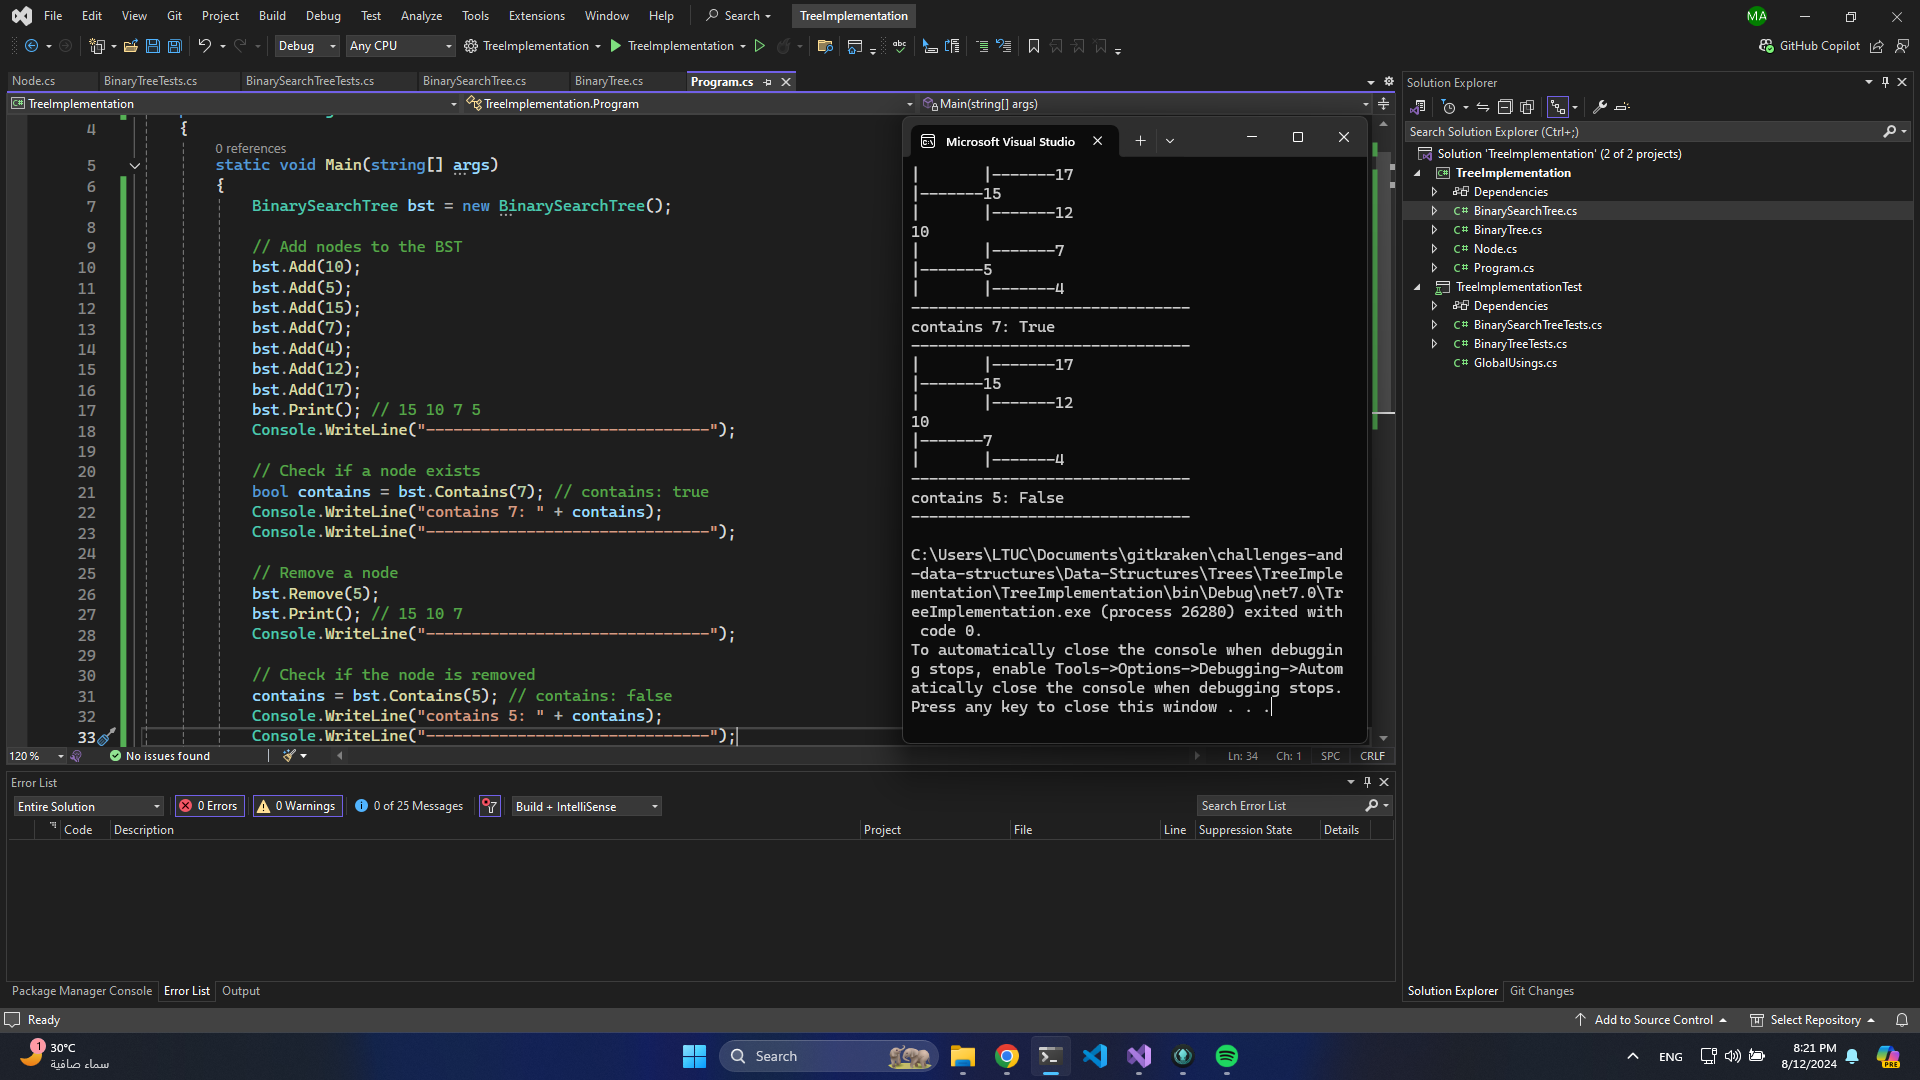
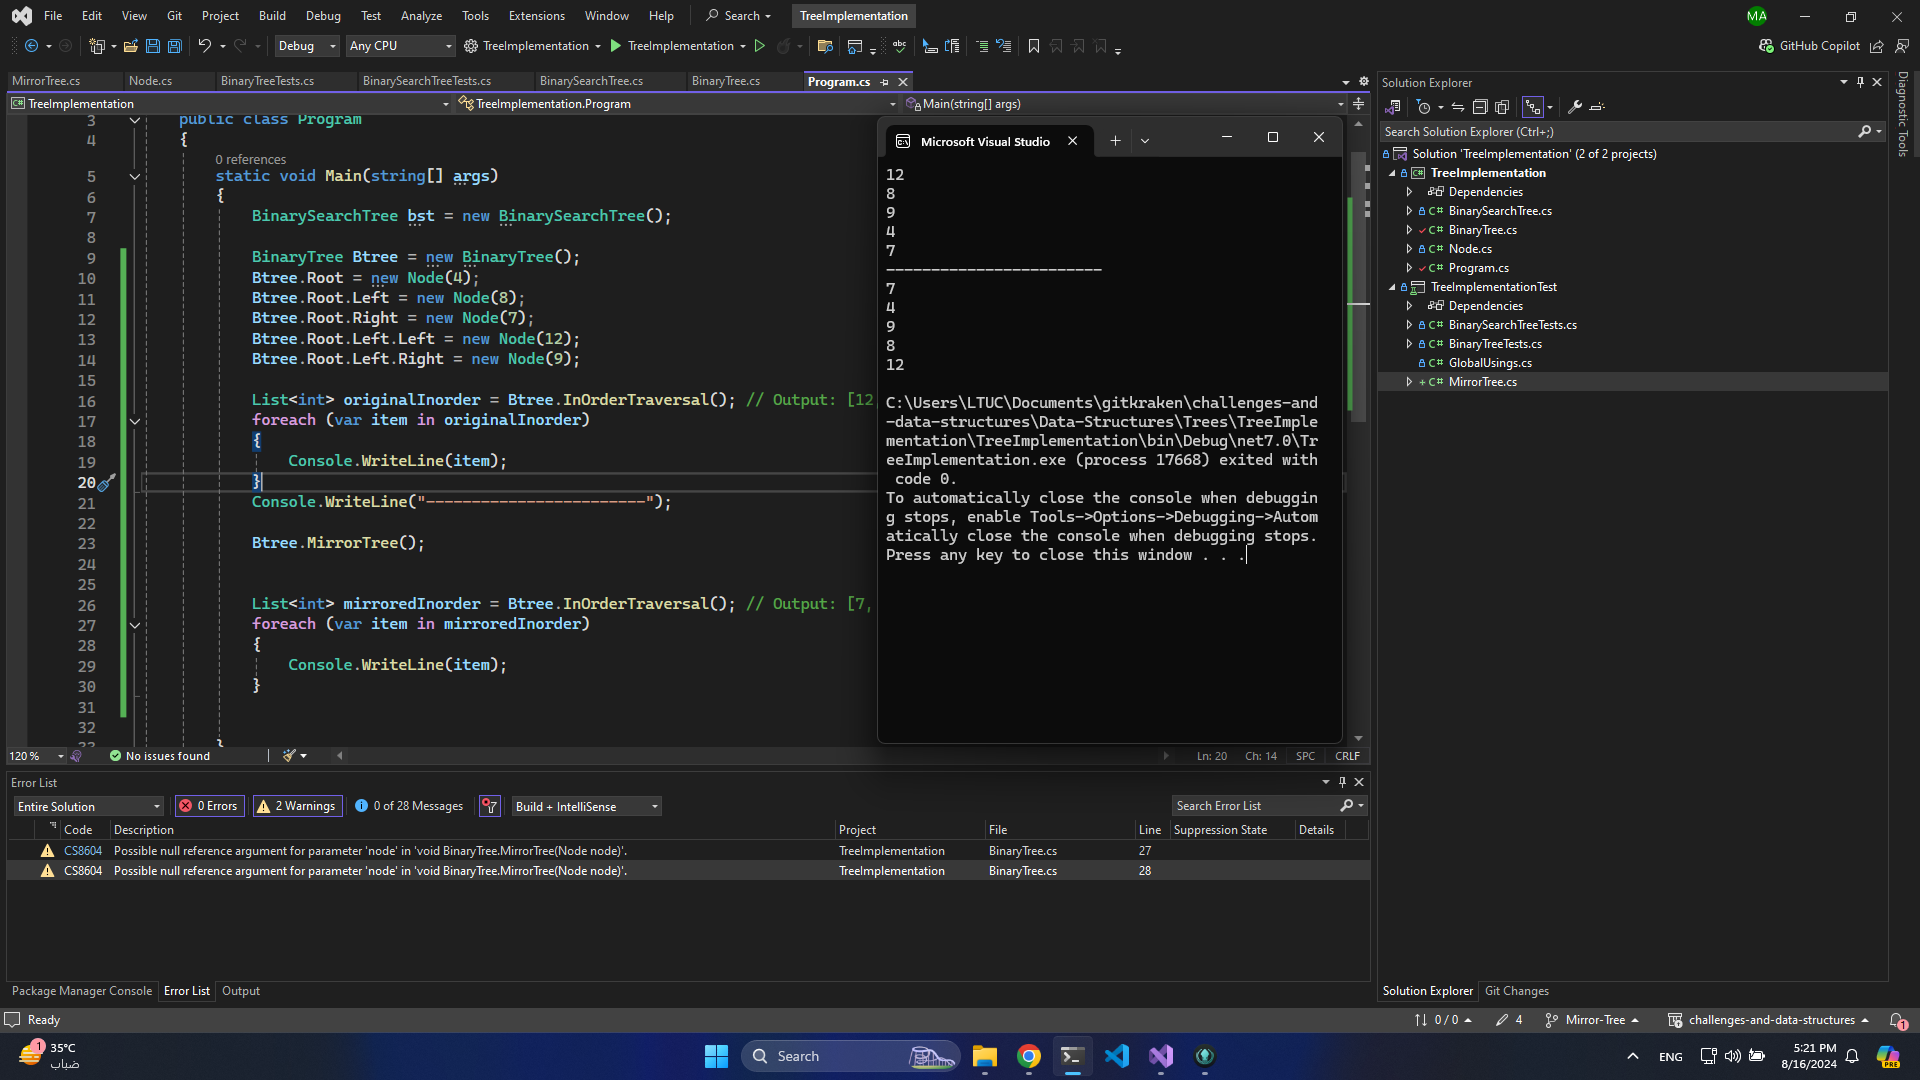
Binary Tree - Mirror Tree

diff --git a/Data-Structures/Trees/TreeImplementation/TreeImplementation/Program.cs b/Data-Structures/Trees/TreeImplementation/TreeImplementation/Program.cs
@@ -6,31 +6,29 @@
         {
             BinarySearchTree bst = new BinarySearchTree();
 
-            // Add nodes to the BST
-            bst.Add(10);
-            bst.Add(5);
-            bst.Add(15);
-            bst.Add(7);
-            bst.Add(4);
-            bst.Add(12);
-            bst.Add(17);
-            bst.Print(); // 15 10 7 5
-            Console.WriteLine("-------------------------------");
+            BinaryTree Btree = new BinaryTree();
+            Btree.Root = new Node(4);
+            Btree.Root.Left = new Node(8);
+            Btree.Root.Right = new Node(7);
+            Btree.Root.Left.Left = new Node(12);
+            Btree.Root.Left.Right = new Node(9);
 
-            // Check if a node exists
-            bool contains = bst.Contains(7); // contains: true
-            Console.WriteLine("contains 7: " + contains);
-            Console.WriteLine("-------------------------------");
+            List<int> originalInorder = Btree.InOrderTraversal(); // Output: [12, 8, 9, 4, 7]
+            foreach (var item in originalInorder)
+            {
+                Console.WriteLine(item);
+            }
+            Console.WriteLine("------------------------");
 
-            // Remove a node
-            bst.Remove(5);
-            bst.Print(); // 15 10 7
-            Console.WriteLine("-------------------------------");
+            Btree.MirrorTree();
 
-            // Check if the node is removed
-            contains = bst.Contains(5); // contains: false
-            Console.WriteLine("contains 5: " + contains);
-            Console.WriteLine("-------------------------------");
+
+            List<int> mirroredInorder = Btree.InOrderTraversal(); // Output: [7, 4, 9, 8, 12]
+            foreach (var item in mirroredInorder)
+            {
+                Console.WriteLine(item);
+            }
+
 
         }
     }

diff --git a/Data-Structures/Trees/TreeImplementation/TreeImplementationTest/MirrorTree.cs b/Data-Structures/Trees/TreeImplementation/TreeImplementationTest/MirrorTree.cs
@@ -1,0 +1,58 @@
+using System;
+using System.Collections.Generic;
+using System.Linq;
+using System.Text;
+using System.Threading.Tasks;
+using TreeImplementation;
+
+namespace TreeImplementationTest
+{
+    public class MirrorTree
+    {
+        [Fact]
+        public void MirrorTreeTest()
+        {
+            // Arrange
+            BinaryTree Btree = new BinaryTree();
+            Btree.Root = new Node(4);
+            Btree.Root.Left = new Node(8);
+            Btree.Root.Right = new Node(7);
+            Btree.Root.Left.Left = new Node(12);
+            Btree.Root.Left.Right = new Node(9);
+
+            // Act
+            Btree.MirrorTree();
+
+            // Assert
+            List<int> mirroredInorder = Btree.InOrderTraversal();
+            Assert.Equal(new List<int> { 7, 4, 9, 8, 12 }, mirroredInorder);
+        }
+        [Fact]
+        public void MirrorTreeEmptyTreeTest()
+        {
+            // Arrange
+            BinaryTree Btree = new BinaryTree();
+
+            // Act
+            Btree.MirrorTree();
+
+            // Assert
+            List<int> mirroredInorder = Btree.InOrderTraversal();
+            Assert.Empty(mirroredInorder);
+        }
+        [Fact]
+        public void MirrorTreeSingleNodeTest()
+        {
+            // Arrange
+            BinaryTree Btree = new BinaryTree();
+            Btree.Root = new Node(4);
+
+            // Act
+            Btree.MirrorTree();
+
+            // Assert
+            List<int> mirroredInorder = Btree.InOrderTraversal();
+            Assert.Equal(new List<int> { 4 }, mirroredInorder);
+        }
+    }
+}

diff --git a/Data-Structures/Trees/TreeImplementation/TreeImplementation/BinaryTree.cs b/Data-Structures/Trees/TreeImplementation/TreeImplementation/BinaryTree.cs
@@ -10,6 +10,42 @@ namespace TreeImplementation
     {
         public Node? Root { get; set; }
 
+        public void MirrorTree()
+        {
+            if (Root == null)
+            {
+                Console.WriteLine("Tree is empty.");
+                return;
+            }
+            MirrorTree(Root);
+        }
+        private void MirrorTree(Node node)
+        {
+            if (node == null)
+                return;
+
+            MirrorTree(node.Left);
+            MirrorTree(node.Right);
+
+            Node temp = node.Left;
+            node.Left = node.Right;
+            node.Right = temp;
+        }
+        public List<int> InOrderTraversal()
+        {
+            List<int> result = new List<int>();
+            InOrderTraversal(Root, result);
+            return result;
+        }
+        private void InOrderTraversal(Node? node, List<int> result)
+        {
+            if (node != null)
+            {
+                InOrderTraversal(node.Left, result);
+                result.Add(node.Value);
+                InOrderTraversal(node.Right, result);
+            }
+        }
         public void InOrder()
         {
             if (Root == null)

diff --git a/README.md b/README.md
@@ -61,3 +61,7 @@
 
 ![Tree Implementation](Data-Structures/Trees/Image1.jpg)
 ![Tree Implementation](Data-Structures/Trees/Image2.jpg)
+
+### Mirror Tree
+
+![Mirror Tree](Data-Structures/Trees/Image3.jpg)
